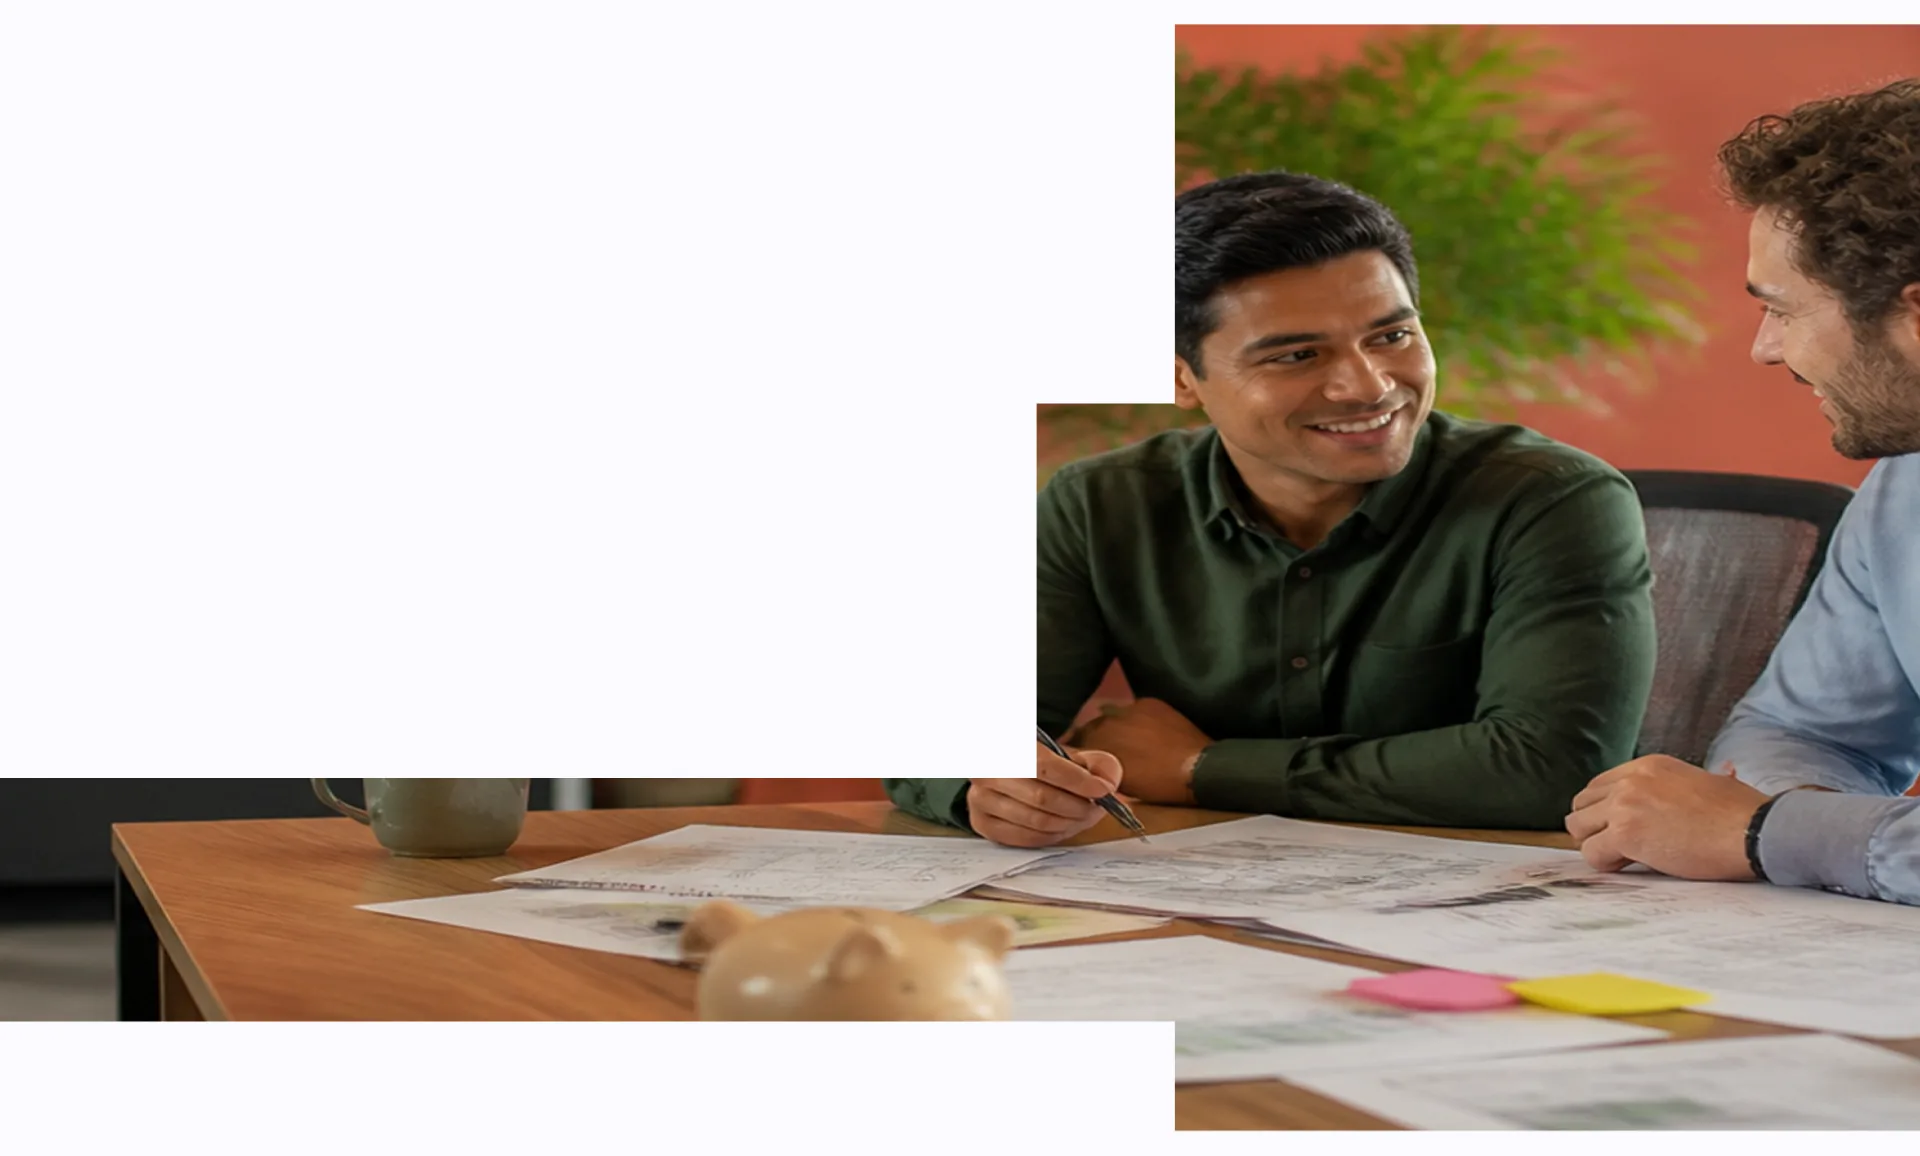
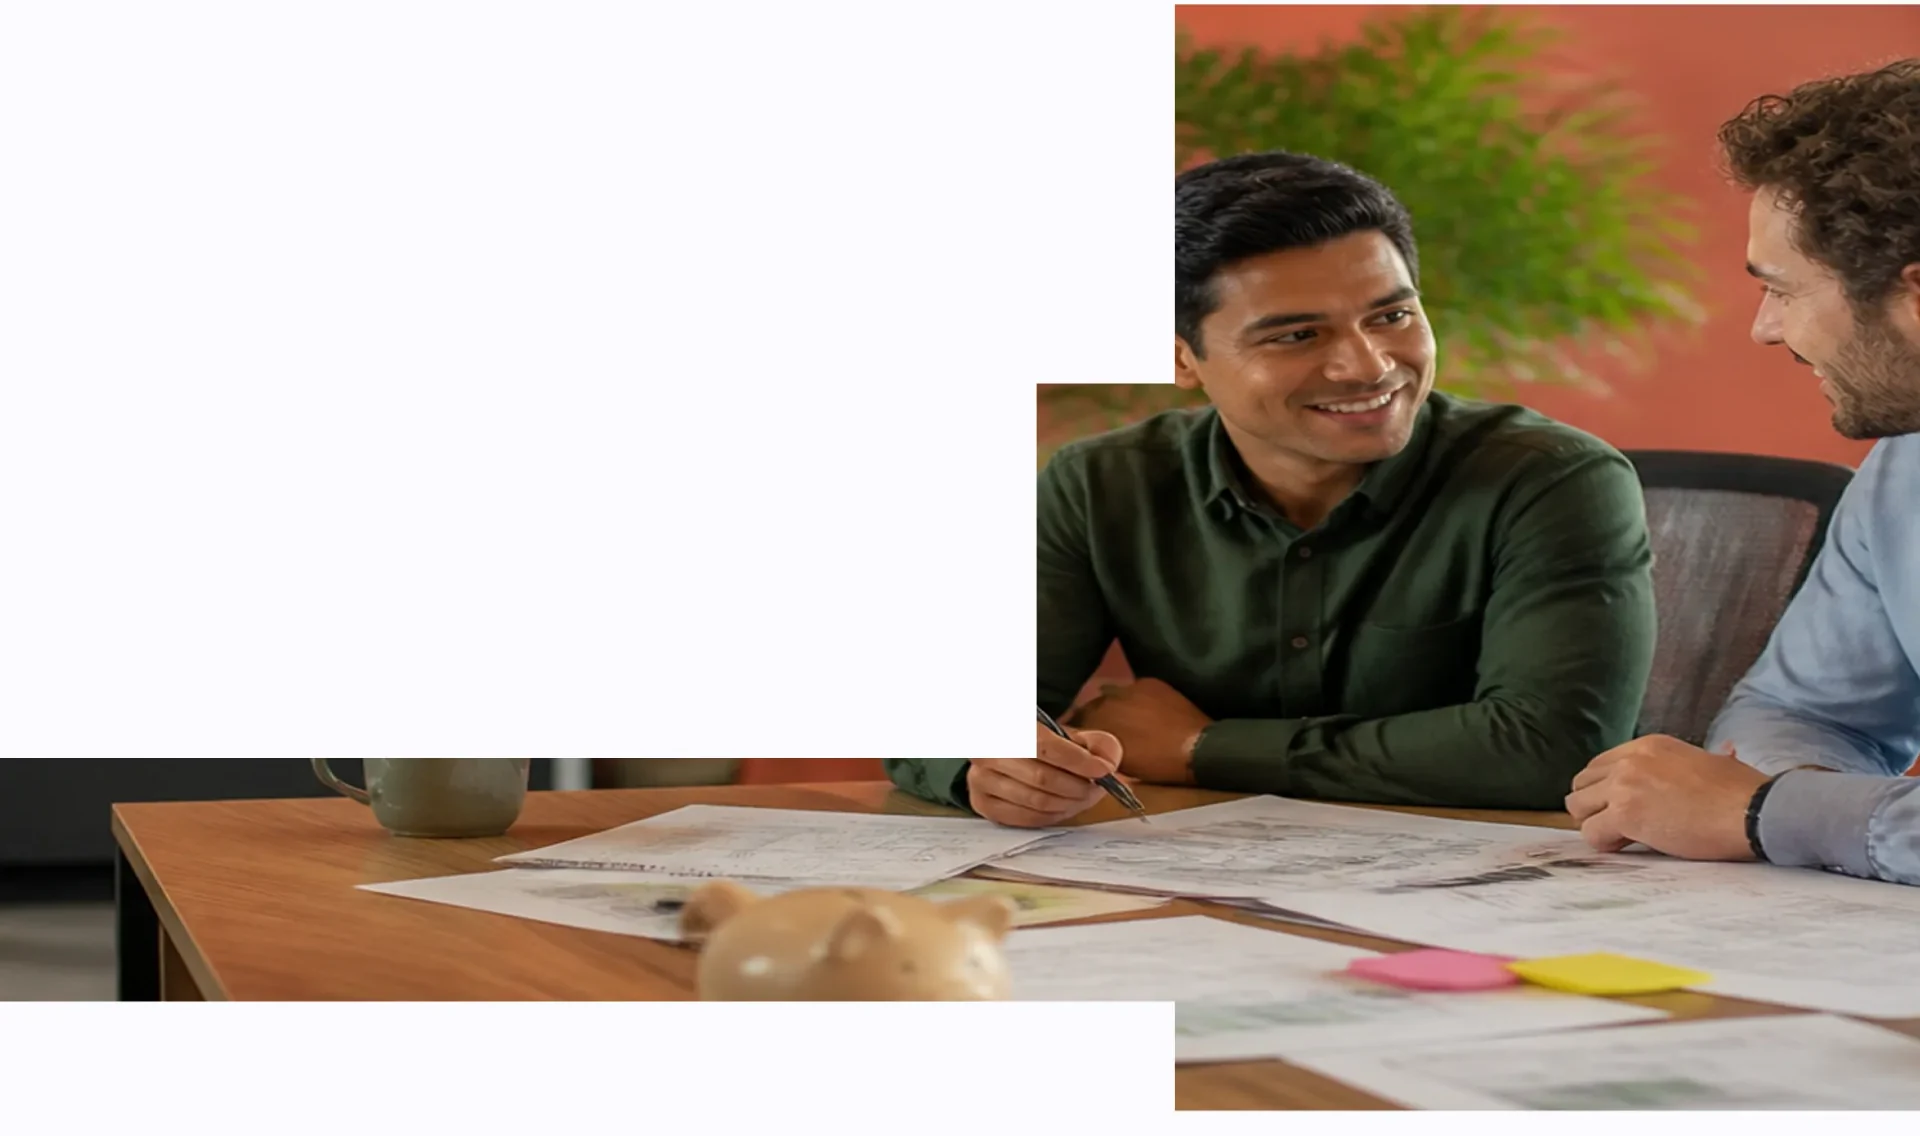
fix(site): tira a faixa branca do hero da /colaborador e para os grafismos
O vão entre o topo e a foto estava dentro do próprio arquivo: hero-bg.webp tinha
20 linhas de #FCFBFF sólido antes da imagem começar. Recortadas (1920 × 1136), e a
altura da seção passou a acompanhar a foto (59,1667vw) em vez de 1156px fixos —
abaixo de 1920 sobrava fundo claro sob ela. O texto do hero também escala com a
viewport agora; com recuo e tipografia fixos ele descia sobre a imagem nas
larguras menores.

Os grafismos restantes ficaram estáticos (data-fm-static): o asterisco do plano na
home, os três da /para-empresas e as duas setas que ainda flutuavam. Nenhum
grafismo das três páginas tem animação agora.

diff --git a/resources/views/pages/collaborator.blade.php b/resources/views/pages/collaborator.blade.php
@@ -19,19 +19,24 @@
          O Vector 17 é uma foto 1920×1156 com recorte em degrau no alpha
          do PNG — mesma técnica do bloco de privacidade da /para-empresas.
          ══════════════════════════════════════════════════════════════ --}}
-    <section id="colaborador" class="relative scroll-mt-28 lg:left-1/2 lg:-mx-[50vw] lg:h-[1156px] lg:w-screen">
+    {{-- A altura acompanha a foto de fundo (1920 × 1136 = 59,1667vw), que é w-full/h-auto:
+         com a altura fixa em px, abaixo de 1920 sobrava fundo claro sob a imagem. --}}
+    <section id="colaborador" class="relative scroll-mt-28 lg:left-1/2 lg:-mx-[50vw] lg:h-[59.1667vw] lg:w-screen">
         <div class="absolute inset-x-0 top-0 -z-10 hidden lg:block" aria-hidden="true">
             <img src="{{ asset('img/colaborador/hero-bg.webp') }}" alt=""
                  class="h-auto w-full" fetchpriority="high" decoding="async">
         </div>
 
-        <div class="mx-auto max-w-[1800px] px-5 pb-16 pt-10 sm:px-8 lg:px-[62px] lg:pb-0 lg:pt-[143px]">
-            <div class="flex flex-col gap-8 lg:max-w-[826px]">
+        {{-- O texto acompanha a foto, que escala com a viewport: em px fixos ele descia
+             sobre a imagem nas larguras menores. Medidas do nó: recuo de 143, título 48,
+             corpo 20, coluna de 826. --}}
+        <div class="mx-auto max-w-[1800px] px-5 pb-16 pt-10 sm:px-8 lg:px-[62px] lg:pb-0 lg:pt-[min(7.4479vw,143px)]">
+            <div class="flex flex-col gap-8 lg:max-w-[min(43.0208vw,826px)]">
                 <div class="flex flex-col gap-4">
-                    <h1 class="fm-reveal fm-in text-[32px] font-bold leading-[1.5] text-dark lg:text-5xl">
+                    <h1 class="fm-reveal fm-in text-[32px] font-bold leading-[1.5] text-dark lg:text-[clamp(28px,2.5vw,48px)]">
                         <span class="text-orange-primary">Cuide do seu dinheiro</span> com a ajuda de um especialista.
                     </h1>
-                    <p class="fm-reveal fm-in text-base font-medium leading-[1.5] text-medium lg:max-w-[578px] lg:text-xl"
+                    <p class="fm-reveal fm-in text-base font-medium leading-[1.5] text-medium lg:max-w-[min(30.1042vw,578px)] lg:text-[clamp(16px,1.0417vw,20px)]"
                        data-fm-delay="1">
                         Consultoria financeira individual, pensada para quem quer organizar suas
                         finanças e planejar o futuro com apoio de quem realmente entende do assunto.

diff --git a/resources/views/pages/home.blade.php b/resources/views/pages/home.blade.php
@@ -121,7 +121,7 @@
         {{-- Grafismo: seta do Figma (Frame 20324), canto superior direito.
              O -top-20 é o mesmo valor do lg:mt-[80px] desta seção, e é o que faz a
              seta encostar na base da faixa em degraus acima em vez de sobrar um vão. --}}
-        <x-graphism type="home-arrow" class="absolute -top-20 right-0 -z-10 hidden w-[295px] lg:block" />
+        <x-graphism type="home-arrow" data-fm-static class="absolute -top-20 right-0 -z-10 hidden w-[295px] lg:block" />
 
         <header class="flex flex-col gap-8 lg:max-w-[1531px]">
             <h2 class="fm-reveal text-[32px] font-bold leading-[1.5] text-high lg:text-5xl">
@@ -295,12 +295,13 @@
                 </svg>
 
                 <x-graphism type="home-asterisk"
-                            class="fm-spin absolute left-[74.58%] top-[28.07%] h-[43.86%] w-[28.16%]" />
+                            data-fm-static
+                            class="absolute left-[74.58%] top-[28.07%] h-[43.86%] w-[28.16%]" />
             </div>
         </div>
 
         {{-- Grafismo: seta ↖ encostada na borda esquerda, na altura do título (270px no Figma) --}}
-        <x-graphism type="arrow" class="absolute -top-16 left-1/2 -z-10 -ml-[50vw] hidden w-[270px] lg:block" />
+        <x-graphism type="arrow" data-fm-static class="absolute -top-16 left-1/2 -z-10 -ml-[50vw] hidden w-[270px] lg:block" />
 
         <header class="flex flex-col gap-8 text-center">
             <h2 class="fm-reveal text-[32px] font-bold leading-[1.5] text-high lg:text-5xl">

diff --git a/resources/views/components/sections/companies/hero.blade.php b/resources/views/components/sections/companies/hero.blade.php
@@ -7,6 +7,7 @@
     {{-- Seta apontando para ↘, sangrando na esquerda (image 8 no design) --}}
     <x-graphism
         type="arrow"
+        data-fm-static
         class="absolute -left-16 -top-2 -z-10 w-32 rotate-180 sm:-left-24 sm:w-48 lg:w-[274px]"
     />
 
@@ -52,7 +53,7 @@
             </div>
 
             {{-- Asterisco sobre a parte de baixo da foto, transbordando à direita --}}
-            <x-graphism class="absolute -right-16 bottom-8 w-[200px] xl:w-[280px]" />
+            <x-graphism data-fm-static class="absolute -right-16 bottom-8 w-[200px] xl:w-[280px]" />
         </div>
     </div>
 </section>

diff --git a/resources/views/components/sections/companies/why-invest.blade.php b/resources/views/components/sections/companies/why-invest.blade.php
@@ -32,6 +32,7 @@
 
             {{-- Asterisco abaixo do texto; a faixa em gradiente logo depois corta a metade de baixo, como no design --}}
             <x-graphism
+                data-fm-static
                 class="absolute -bottom-[340px] right-0 -z-10 hidden w-[347px] xl:block"
             />
         </div>

diff --git a/resources/views/components/sections/companies/journey.blade.php b/resources/views/components/sections/companies/journey.blade.php
@@ -68,6 +68,7 @@
     ></div>
 
     <x-graphism
+        data-fm-static
         color="light"
         class="absolute bottom-[8%] -left-20 w-40 lg:-left-24 lg:w-[347px]"
     />
